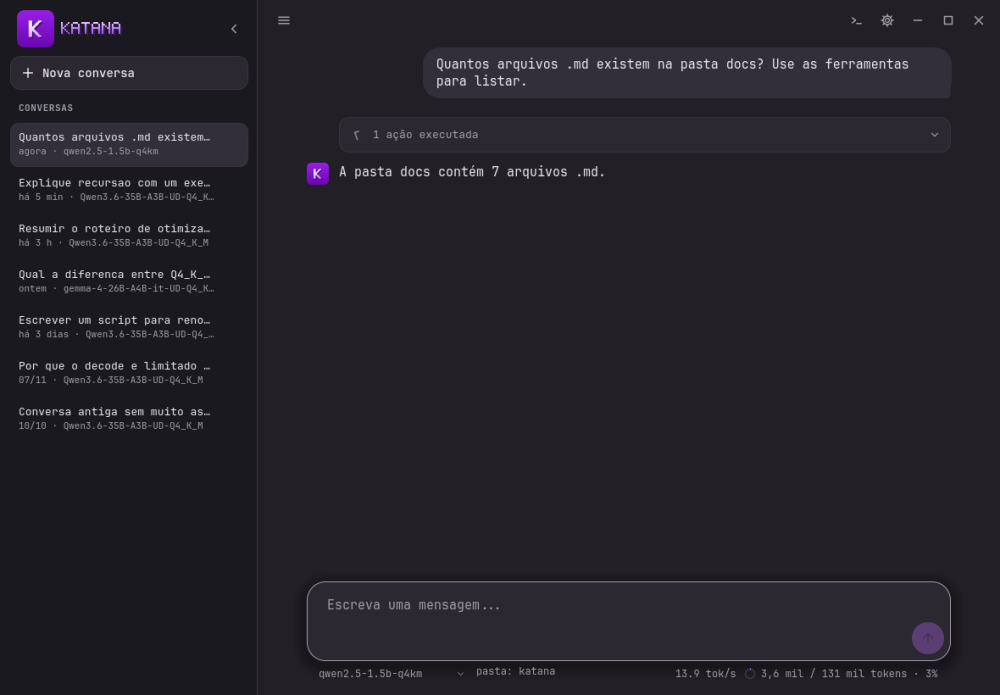
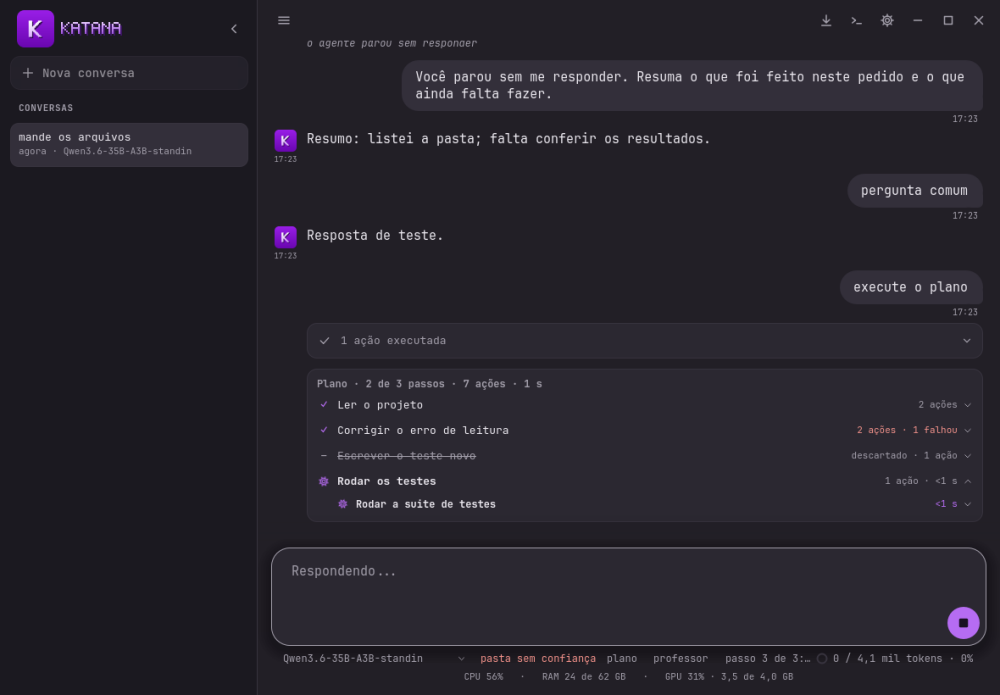
site: largura total, hero em duas colunas, grades equilibradas, painel de modelos, terminal alinhado, lista na busca em codigo, captura nova do desktop

diff --git a/site/public/index.html b/site/public/index.html
@@ -32,7 +32,7 @@
     margin: 0; background: var(--bg); color: var(--fg);
     font: 16px/1.65 system-ui, -apple-system, "Segoe UI", Roboto, sans-serif;
   }
-  .wrap { max-width: 860px; margin: 0 auto; padding: 0 16px; }
+  .wrap { max-width: 1680px; margin: 0 auto; padding: 0 clamp(20px, 5vw, 96px); }
   a { color: var(--ac); }
   nav { display: flex; align-items: center; gap: 10px; padding: 22px 0; font-family: var(--mono); font-size: .95rem; }
   nav img { width: 28px; height: 28px; border-radius: 8px; }
@@ -56,10 +56,10 @@
   .btn.pri { background: var(--ac2); border-color: var(--ac2); color: #fff; }
   .btn { border-radius: 12px; }
   .btn:hover { border-color: var(--ac); }
-  .lead { font-size: 1.25rem; color: var(--mut); margin: 22px 0 0; max-width: 36em; }
+  .lead { font-size: 1.25rem; color: var(--mut); margin: 22px 0 0; max-width: 34em; }
   .lead strong { color: var(--fg); font-weight: 600; }
   /* terminal de comandos: o painel de terminal do katana desktop (fundo de codigo, barra com >_) */
-  .term { margin: 26px 0 0; background: var(--code); border: 1px solid var(--bd); border-radius: 12px; overflow: hidden; box-shadow: 0 12px 32px var(--shadow); }
+  .term { max-width: 62em; margin: 26px 0 0; background: var(--code); border: 1px solid var(--bd); border-radius: 12px; overflow: hidden; box-shadow: 0 12px 32px var(--shadow); }
   .term .bar { display: flex; align-items: center; gap: 8px; padding: 9px 14px; background: var(--codeh); border-bottom: 1px solid var(--bd); color: var(--mut); font: 600 .78rem var(--mono); letter-spacing: .04em; }
   .term .bar::before { content: ">_"; color: var(--ac); font-weight: 800; }
   .term pre { margin: 0; padding: 14px 16px; overflow-x: auto; font: .88rem/1.65 var(--mono); }
@@ -67,11 +67,27 @@
   .c { color: var(--mut); }
   h2 { margin: 64px 0 6px; font: 700 1.5rem/1.2 var(--mono); letter-spacing: -.02em; }
   h2::before { content: "# "; color: var(--ac); }
-  p { margin: 12px 0; max-width: 46em; }
-  .grid { display: grid; gap: 14px; grid-template-columns: repeat(auto-fit, minmax(255px, 1fr)); margin-top: 18px; }
-  .card { background: var(--card); border: 1px solid var(--bd); border-radius: 12px; padding: 18px; }
-  .card h3 { margin: 0 0 6px; font: 600 1rem var(--mono); color: var(--ac); }
-  .card p { margin: 0; color: var(--mut); font-size: .96rem; }
+  p { margin: 12px 0; max-width: 62em; line-height: 1.7; }
+  .grid { display: grid; gap: 14px; grid-template-columns: repeat(auto-fit, minmax(255px, 1fr)); margin-top: 18px; align-items: stretch; }
+  .grid.c3 { grid-template-columns: repeat(3, minmax(0, 1fr)); }
+  .grid.c2 { grid-template-columns: repeat(2, minmax(0, 1fr)); }
+  .grid.c4 { grid-template-columns: repeat(4, minmax(0, 1fr)); }
+  .hero { display: grid; grid-template-columns: minmax(0, 1fr) minmax(0, 1fr); gap: clamp(28px, 4vw, 72px); align-items: start; }
+  .hero-r .term { margin-top: 12px; max-width: none; }
+  .hero-r .models { grid-template-columns: 1fr 1fr; }
+  .shot { max-width: 1240px; }
+  .tablewrap { max-width: 62em; }
+  .models { display: grid; grid-template-columns: repeat(2, minmax(0, 1fr)); gap: 14px; margin: 16px 0 0; }
+  .models > div { background: var(--card); border: 1px solid var(--bd); border-radius: 12px; padding: 16px 18px; }
+  .models h3 { margin: 0 0 4px; font: 600 .95rem var(--mono); color: var(--ac); }
+  .models p { margin: 4px 0 8px; font-size: .92rem; color: var(--mut); }
+  .models ol { margin: 0; padding-left: 1.3em; font-size: .93rem; color: var(--fg); }
+  .models li { margin: 3px 0; padding-left: 2px; }
+  .models li::marker { color: var(--mut); font-family: var(--mono); }
+  .models p.note { margin: 10px 0 0; }
+  .card { background: var(--card); border: 1px solid var(--bd); border-radius: 12px; padding: 18px 20px; }
+  .card h3 { margin: 0 0 8px; font: 600 1rem/1.3 var(--mono); color: var(--ac); }
+  .card p { margin: 0; color: var(--mut); font-size: .96rem; line-height: 1.6; max-width: none; }
   .tablewrap { overflow-x: auto; margin: 16px 0 8px; }
   table { width: 100%; border-collapse: collapse; background: var(--card); border: 1px solid var(--bd); border-radius: 14px; overflow: hidden; font-size: .96rem; }
   th, td { text-align: left; padding: 11px 16px; border-bottom: 1px solid var(--bd); }
@@ -79,14 +95,29 @@
   tr:last-child td { border-bottom: 0; }
   td.num { font-family: var(--mono); white-space: nowrap; color: var(--ok); }
   .note { color: var(--mut); font-size: .9rem; }
+  ul.points { margin: 8px 0 12px; padding-left: 1.2em; max-width: 62em; }
+  ul.points li { margin: 7px 0; padding-left: 4px; line-height: 1.65; }
+  ul.points li::marker { color: var(--ac); }
   .shot { margin: 1.4rem 0; }
   .shot img { display: block; width: 100%; height: auto; border-radius: 10px; border: 1px solid var(--line, rgba(128,128,128,.3)); }
   .shot figcaption { color: var(--mut); font-size: .9rem; margin-top: .5rem; }
   code { font-family: var(--mono); font-size: .9em; background: var(--code); border: 1px solid var(--bd); padding: 1px 6px; border-radius: 6px; }
-  .callout { border-left: 3px solid var(--ac); background: var(--card); border-radius: 0 12px 12px 0; padding: 12px 18px; margin: 20px 0; color: var(--mut); }
+  .callout { max-width: 62em; border-left: 3px solid var(--ac); background: var(--card); border-radius: 0 12px 12px 0; padding: 12px 18px; margin: 20px 0; color: var(--mut); }
   .callout strong { color: var(--fg); }
   footer { margin: 80px 0 40px; padding-top: 22px; border-top: 1px solid var(--bd); color: var(--mut); font: .85rem var(--mono); display: flex; gap: 16px; flex-wrap: wrap; }
+  @media (max-width: 1180px) {
+    .grid.c4 { grid-template-columns: repeat(2, minmax(0, 1fr)); }
+  }
+  @media (max-width: 980px) {
+    .hero { grid-template-columns: 1fr; }
+    .hero-r .term { margin-top: 26px; }
+  }
+  @media (max-width: 760px) {
+    .grid.c3, .grid.c2, .grid.c4, .models, .hero-r .models { grid-template-columns: 1fr; }
+  }
   @media (max-width: 560px) {
+    .term pre { white-space: pre-wrap; word-break: break-word; }
+    .term pre .c { display: block; padding-left: 2ch; margin-bottom: -1.65em; padding-bottom: .5em; }
     .hero { padding-top: 30px; }
     .mark { gap: 12px; }
     .samurai { width: 96px; height: 96px; }          /* 48x48 em 2x */
@@ -100,6 +131,7 @@
 <nav><img src="icon.png" alt="" width="28" height="28"><b>katana</b><span class="links"><a href="#ai">AI</a><a href="#project">Project</a><a href="#me">Me</a><a href="https://github.com/alesimoes/katana">Git</a></span></nav>
 
 <header class="hero">
+<div class="hero-l">
   <div class="mark">
     <img class="samurai" src="samurai.png" alt="" width="48" height="48">
     <h1><picture><source srcset="titulo-claro.png" media="(prefers-color-scheme: light)"><img class="pixtitle" src="titulo-escuro.png" alt="katana" width="36" height="8"></picture></h1>
@@ -107,22 +139,49 @@
   <p class="tag">Big models. <em>Small hardware.</em> All local.</p>
   <p class="lead">katana is an inference engine written <strong>from scratch in C</strong>. It runs large Mixture-of-Experts models on a laptop GPU, with a tool-using agent and a native desktop app on top. No framework. No external service.</p>
   <div class="btns"><a class="btn pri" href="https://github.com/alesimoes/katana">Source on GitHub</a><a class="btn" href="#project">How it works</a></div>
+</div>
+<div class="hero-r">
   <div class="term" aria-label="Example commands">
     <div class="bar">terminal</div>
-<pre><span class="p">$</span> sh build.sh                        <span class="c"># one C file, gcc, nothing to install</span>
-<span class="p">$</span> ./katana catalog                   <span class="c"># models it can download, and which fit this machine</span>
-<span class="p">$</span> ./katana pull qwen3.6-35b          <span class="c"># download into models/ and verify it</span>
-<span class="p">$</span> ./katana                           <span class="c"># chat with tools in this folder; it picks a model</span>
-<span class="p">$</span> ./katana --model qwen             <span class="c"># or name one: a file name, part of it, or a .gguf path</span></pre>
+<pre><span class="p">$</span> sh build.sh                <span class="c"># one C file, gcc, nothing to install</span>
+<span class="p">$</span> ./katana catalog           <span class="c"># models to download; what fits here</span>
+<span class="p">$</span> ./katana pull qwen3.6-35b  <span class="c"># download into models/, then verify</span>
+<span class="p">$</span> ./katana                   <span class="c"># chat with tools here; picks a model</span>
+<span class="p">$</span> ./katana --model qwen      <span class="c"># or name one: file name, part, or path</span></pre>
   </div>
-  <p class="lead" style="font-size:.95rem;margin-top:14px">Where the model comes from: katana reads <code>.gguf</code> files from a models folder (<code>KATANA_MODELS</code>, <code>models=</code> in <code>.katana/katana.cfg</code> or <code>~/.katana/katana.cfg</code>, <code>./models</code>, the <code>models</code> folder beside the binary, then <code>~/.katana/models</code>). With no flag it chooses in this order: <code>--model</code>, <code>KATANA_MODEL</code>, <code>model=</code> in the config, the model the desktop app used last, the recommended one, the largest installed. It prints which one it picked and why. <code>./katana agent model.gguf</code> still takes an explicit file.</p>
+  <div class="models">
+    <div>
+      <h3>Where it looks for models</h3>
+      <p>katana reads <code>.gguf</code> files from a models folder, searched in this order:</p>
+      <ol>
+        <li><code>KATANA_MODELS</code></li>
+        <li><code>models=</code> in <code>.katana/katana.cfg</code> or <code>~/.katana/katana.cfg</code></li>
+        <li><code>./models</code></li>
+        <li>the <code>models</code> folder beside the binary</li>
+        <li><code>~/.katana/models</code></li>
+      </ol>
+    </div>
+    <div>
+      <h3>Which one it picks</h3>
+      <p>With no option it takes the first that applies, and prints which one and why:</p>
+      <ol>
+        <li><code>--model</code> (a name, part of one, or a path)</li>
+        <li><code>KATANA_MODEL</code></li>
+        <li><code>model=</code> in the config</li>
+        <li>the model the desktop app used last</li>
+        <li>the recommended one, then the largest installed</li>
+      </ol>
+      <p class="note"><code>./katana agent model.gguf</code> still takes an explicit file.</p>
+    </div>
+  </div>
+</div>
 </header>
 
 <main>
 <h2 id="ai">How a language model runs</h2>
 <p>A large language model is a very large table of numbers, the <em>weights</em>, plus a fixed recipe for turning a piece of text into the next piece of text. <strong>Training</strong> is the expensive part, done once by whoever builds the model. <strong>Inference</strong> is what happens every time you use it: the text goes through the recipe, one token at a time, and a token comes out. katana is about inference.</p>
 <p>Three ideas explain most of what makes local inference practical:</p>
-<div class="grid">
+<div class="grid c3">
   <div class="card"><h3>Quantization</h3><p>Weights are stored with 4 or 5 bits instead of 16, shrinking a model by about four times with a small loss of quality. This is why a 35B model is about 20 GB, not 70.</p></div>
   <div class="card"><h3>Mixture of experts</h3><p>Some models split their feed-forward layers into many <em>experts</em> and use only a few for each token. Most of the model sits idle at any moment, which is what a small GPU can exploit.</p></div>
   <div class="card"><h3>Why run it locally</h3><p>Privacy (your text never leaves the machine), no per-token bill, no network needed, and full control over the model and the tools it may use.</p></div>
@@ -138,7 +197,7 @@
 <p>katana takes the middle road: run large <strong>Mixture-of-Experts</strong> models fast on small hardware, privately, and put a useful agent on top.</p>
 
 <h2>How it works</h2>
-<div class="grid">
+<div class="grid c4">
   <div class="card"><h3>VRAM as an expert cache</h3><p>A MoE model uses only a few experts per token (say 8 of 128 per layer). Attention stays in VRAM, hot experts take VRAM slots, cold experts run on the CPU straight from the memory-mapped file, and a background loader promotes the ones that heat up. A token never waits for the disk.</p></div>
   <div class="card"><h3>Long context, small card</h3><p>The KV cache is sized per architecture, kept in fp16, and can be saved to disk, so an agent session resumes without recomputing its prompt.</p></div>
   <div class="card"><h3>Readable and checkable</h3><p>One C file you can read and change. <code>selftest</code> checks the GPU and CPU matrix products and the whole CPU path against exact float math.</p></div>
@@ -147,7 +206,14 @@
 
 <h2>The agent</h2>
 <p>The agent gives the model a short list of tools: a shell (<code>Bash</code>; git, package managers and the rest go through it), reading, searching and editing files, code search (<code>Find</code>, <code>Symbols</code>, <code>Grep</code>), a plan list, a built-in web meta-search (no API key) and page fetching, persistent memory, and any <a href="https://modelcontextprotocol.io">Model Context Protocol</a> server. Every tool call is shown and logged, and tool results reach the model as data, not as instructions. The agent compacts its own context and keeps a persistent prefix cache, so the long system prompt is processed once.</p>
-<p><strong>Finding things in code.</strong> The agent has one entry point for search, <code>Find</code>: it looks at the question and chooses the way to search (a name, quoted text, or a description in words), reads the files again to check what it reports, and says what it did not find, including the folders it left out of the index and why. A <code>Symbols</code> tool answers precise questions (where a name is defined, who calls it, what it calls, what a change would reach, how two files are connected, a summary of a folder) from an index of the code that supports more than 60 languages and file formats, and every answer carries a confidence level. The index is built on demand by a background crawler, kept fresh by a file watcher, and starts from zero in each project you initialise. Before the model starts, the program can also look the question up itself and attach what it verified (paths, lines, who calls whom, and what it could not find) after your message; the model is told to check it before relying on it. None of this uses embeddings or a remote service. It is new, the model has not been trained on it yet, and none of it has been measured.</p>
+<p><strong>Finding things in code.</strong> The agent searches with a few tools that say how sure they are and what they did not find:</p>
+<ul class="points">
+  <li><code>Find</code> looks at the question and chooses how to search (a name, quoted text, or a description in words), reads the files again to check what it reports, and says what it did not find, including the folders it left out of the index and why.</li>
+  <li><code>Symbols</code> answers precise questions: where a name is defined, who calls it, what it calls, what a change would reach, how two files are connected, a summary of a folder. It works from an index that supports more than 60 languages and file formats; every answer carries a confidence level.</li>
+  <li>The index is built on demand by a background crawler, kept fresh by a file watcher, and starts from zero in each project you initialise.</li>
+  <li>Before the model starts, the program can look the question up itself and attach what it verified (paths, lines, who calls whom, and what it could not find) after your message. The model is told to check it before relying on it.</li>
+</ul>
+<p class="note">None of this uses embeddings or a remote service. It is new, the model has not been trained on it yet, and none of it has been measured.</p>
 <div class="callout"><strong>Heads up:</strong> by default the agent acts on your machine without asking. Set <code>KATANA_CONFIRM=1</code> to have it ask first.</div>
 
 <h2>Measured</h2>
@@ -164,22 +230,25 @@
 <p class="note">Alternating runs on the same machine, because the machine drifts over time; taken before the latest changes to the agent and not repeated since. Your numbers will differ with your hardware.</p>
 
 <h2 id="model">The model</h2>
-<p>katana is developed and tested with <strong>Qwen3.6-35B-A3B</strong>, a Mixture-of-Experts model with 35 billion parameters of which about 3 billion are active for each token. The original model, its model card and its license are at <a href="https://huggingface.co/Qwen/Qwen3.6-35B-A3B">Qwen/Qwen3.6-35B-A3B</a> on Hugging Face. katana reads GGUF files, so it uses the 4-bit quantization <code>Qwen3.6-35B-A3B-UD-Q4_K_M.gguf</code> (22 GB, 32 GB of RAM or more recommended) published by <a href="https://huggingface.co/unsloth/Qwen3.6-35B-A3B-GGUF">Unsloth</a>. <code>./katana pull qwen3.6-35b</code> downloads that exact file and checks it against a pinned revision and checksum. <code>katana convert</code> turns a Hugging Face checkpoint into a GGUF file for this architecture; it has only been checked on tiny test checkpoints, not on the real model yet.</p>
+<p>katana is developed and tested with <strong>Qwen3.6-35B-A3B</strong>, a Mixture-of-Experts model with 35 billion parameters of which about 3 billion are active for each token. The original model, its model card and its license are at <a href="https://huggingface.co/Qwen/Qwen3.6-35B-A3B">Qwen/Qwen3.6-35B-A3B</a> on Hugging Face.</p>
+<p>katana reads GGUF files, so it uses the 4-bit quantization <code>Qwen3.6-35B-A3B-UD-Q4_K_M.gguf</code> (22 GB; 32 GB of RAM or more recommended) published by <a href="https://huggingface.co/unsloth/Qwen3.6-35B-A3B-GGUF">Unsloth</a>. <code>./katana pull qwen3.6-35b</code> downloads that exact file and checks it against a pinned revision and checksum.</p>
+<p class="note"><code>katana convert</code> turns a Hugging Face checkpoint into a GGUF file for this architecture; it has only been checked on tiny test checkpoints, not on the real model yet.</p>
 
 <h2 id="ways">Three ways to use it</h2>
-<div class="grid">
-  <div class="card"><h3>Console</h3><p><code>./katana</code> in your project folder (or <code>./katana -p "request"</code> for a single answer). The agent with all its tools, in the terminal; it picks the model as described above, or take one with <code>--model</code>.</p></div>
+<div class="grid c3">
+  <div class="card"><h3>Console</h3><p><code>./katana</code> in your project folder, or <code>./katana -p "request"</code> for a single answer. The agent with all its tools, in the terminal. It picks the model as described above, or take one with <code>--model</code>.</p></div>
   <div class="card"><h3>Desktop</h3><p>A native window (Qt 6, no browser) that drives the same agent: conversations, tool cards, plan, context meter. Linux only for now.</p></div>
-  <div class="card"><h3>Web <em>(work in progress)</em></h3><p><code>katana web</code> opens the same window as the desktop app in your browser, running locally: same layout, themes, conversations, tool cards and plan. It listens only on 127.0.0.1 and asks for a token that it prints in the address. The page matches the desktop in side-by-side screenshots, but it has only been run against stand-in engines, not yet with a real model; <code>katana serve model.gguf</code> still serves a plain chat page and an OpenAI-compatible API.</p></div>
+  <div class="card"><h3>Web <em>(work in progress)</em></h3><p><code>katana web</code> opens the desktop's window in your browser, running locally on 127.0.0.1 with a token. It matches the desktop in screenshots but has not been run with a real model yet.</p></div>
 </div>
+<p class="note"><code>katana serve model.gguf</code> still serves a plain chat page and an OpenAI-compatible API on your machine.</p>
 
 <h2 id="desktop">Run the desktop app</h2>
-<figure class="shot"><img src="desktop.png" width="1000" height="695" alt="katana-desktop: conversation list on the left, a chat where the agent listed the .md files in a folder, and the message box with the model selector and token counter" loading="lazy"><figcaption>katana-desktop: conversations on the left, the agent's actions folded into one step, and the model, working folder and context counter under the message box.</figcaption></figure>
+<figure class="shot"><img src="desktop.png" width="1000" height="695" alt="katana-desktop: conversation list on the left, a chat with a plan of steps and the actions folded under it, and the message box with the model selector and context counter" loading="lazy"><figcaption>katana-desktop: conversations on the left, the agent's actions folded into one step per task, the plan with its steps, and the model, working folder and context counter under the message box. (Screenshot from the test harness, with a stand-in engine instead of a model.)</figcaption></figure>
 <p>The desktop app is a native window (Qt 6, no browser) that starts the agent for you. It needs the engine built first, a model file, and Qt 6.5 or newer with CMake 3.21 or newer. On Ubuntu or Debian the Qt packages used here are <code>qt6-base-dev</code>, <code>qt6-declarative-dev</code> and <code>qml6-module-qtquick-controls</code>.</p>
 <div class="term" aria-label="Desktop app commands">
   <div class="bar">terminal</div>
-<pre><span class="p">$</span> ./build.sh                          <span class="c"># 1. the engine -> ./katana</span>
-<span class="p">$</span> desktop-qt/build.sh                 <span class="c"># 2. the app    -> desktop-qt/build/katana-desktop-qt</span>
+<pre><span class="p">$</span> sh build.sh                         <span class="c"># 1. the engine -> ./katana</span>
+<span class="p">$</span> sh desktop-qt/build.sh               <span class="c"># 2. the app    -> desktop-qt/build/katana-desktop-qt</span>
 <span class="p">$</span> mkdir -p models &amp;&amp; cp model.gguf models/   <span class="c"># 3. put a GGUF model in models/</span>
 <span class="p">$</span> ./desktop-qt/build/katana-desktop-qt   <span class="c"># 4. run it, from the repository root</span></pre>
 </div>
